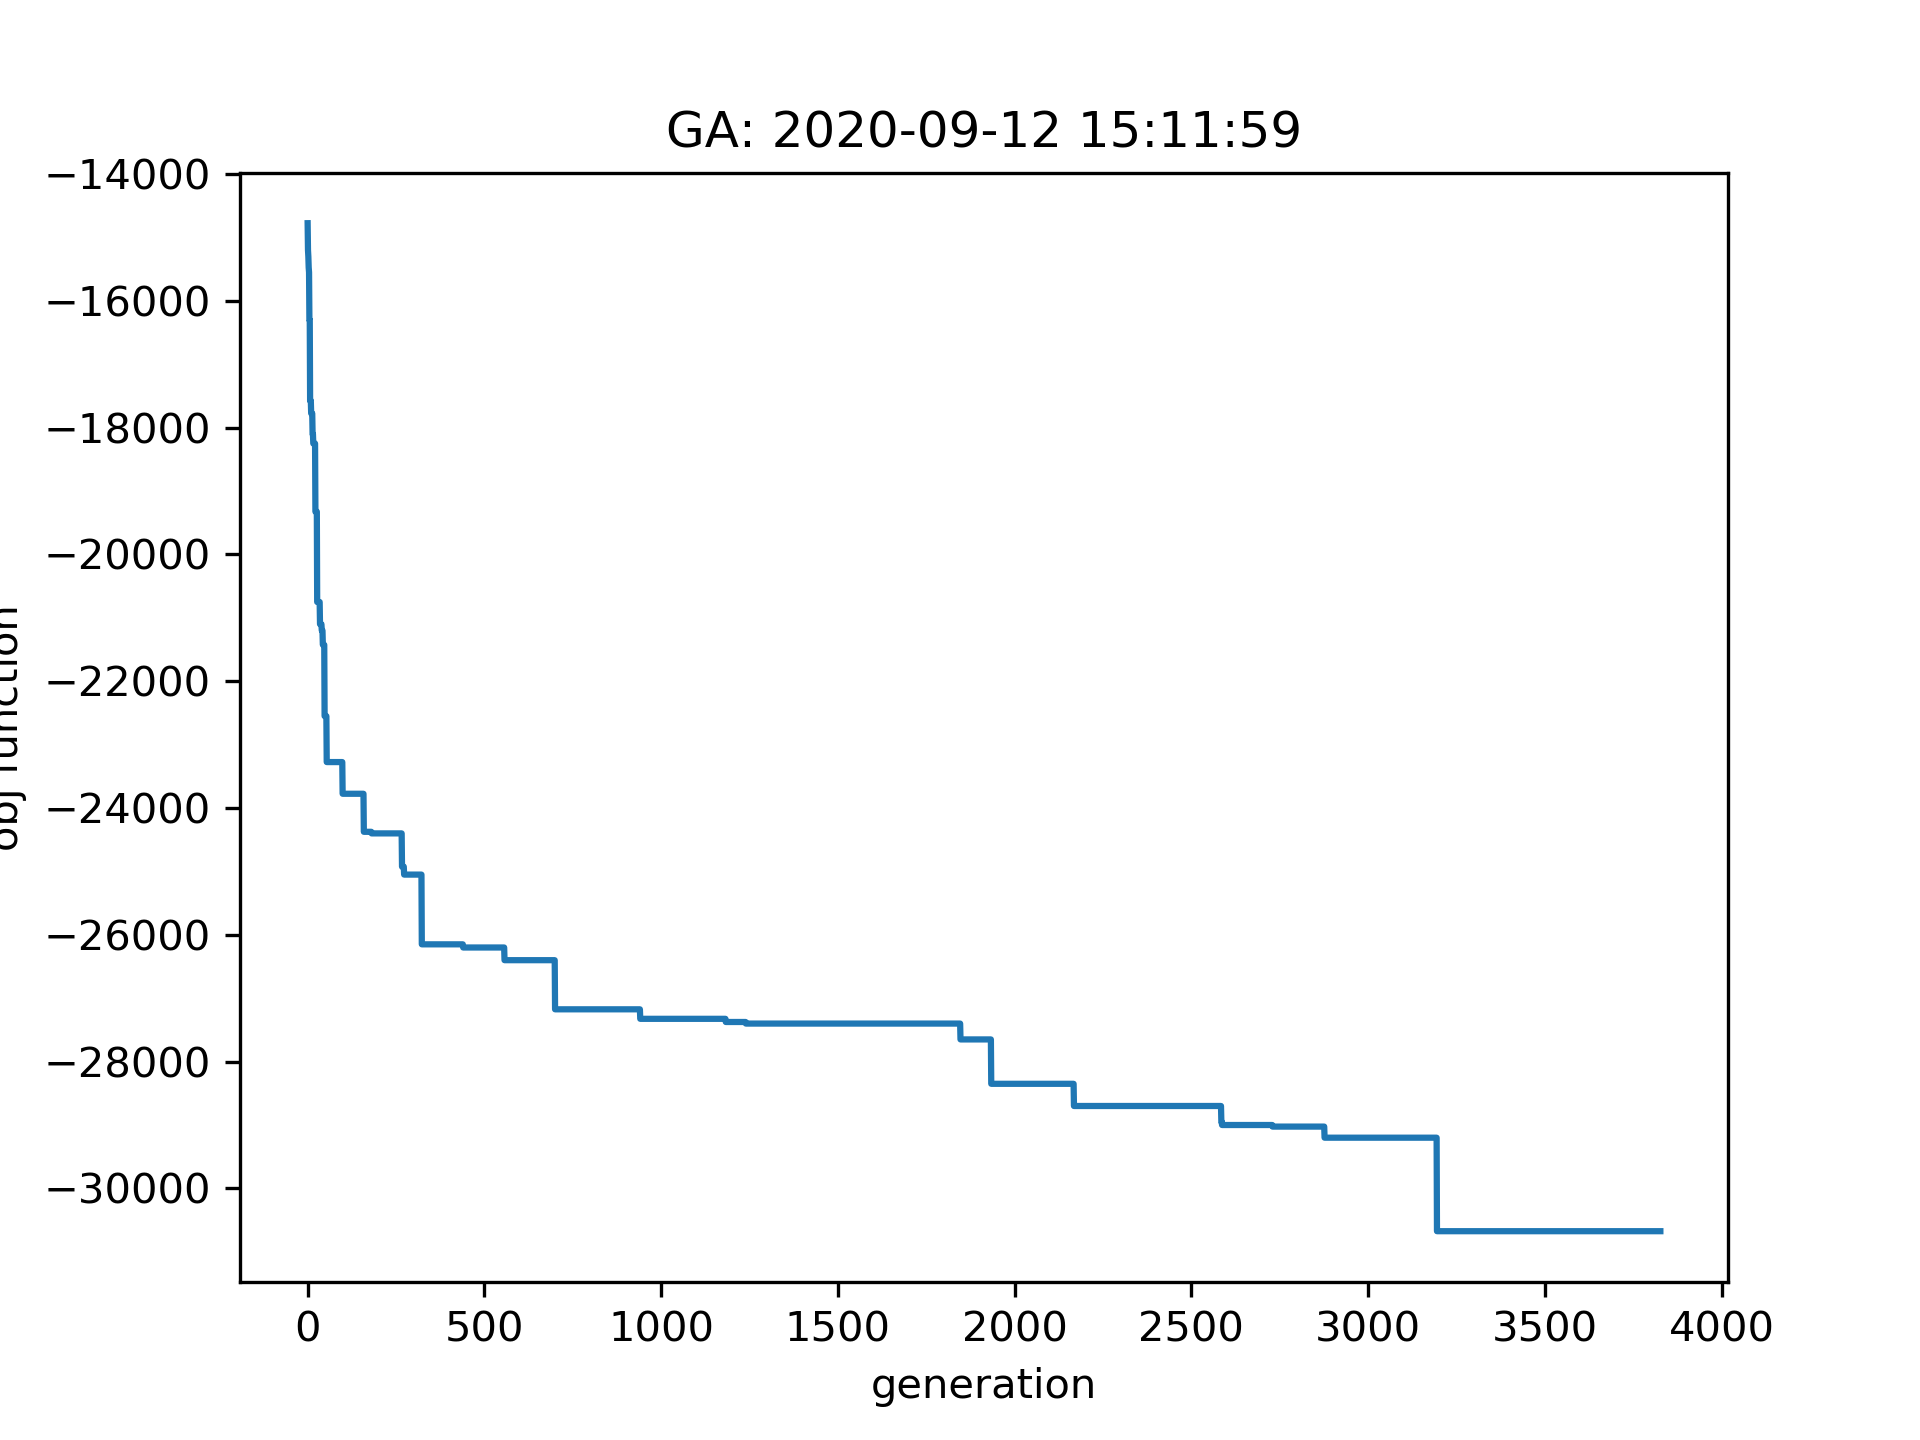
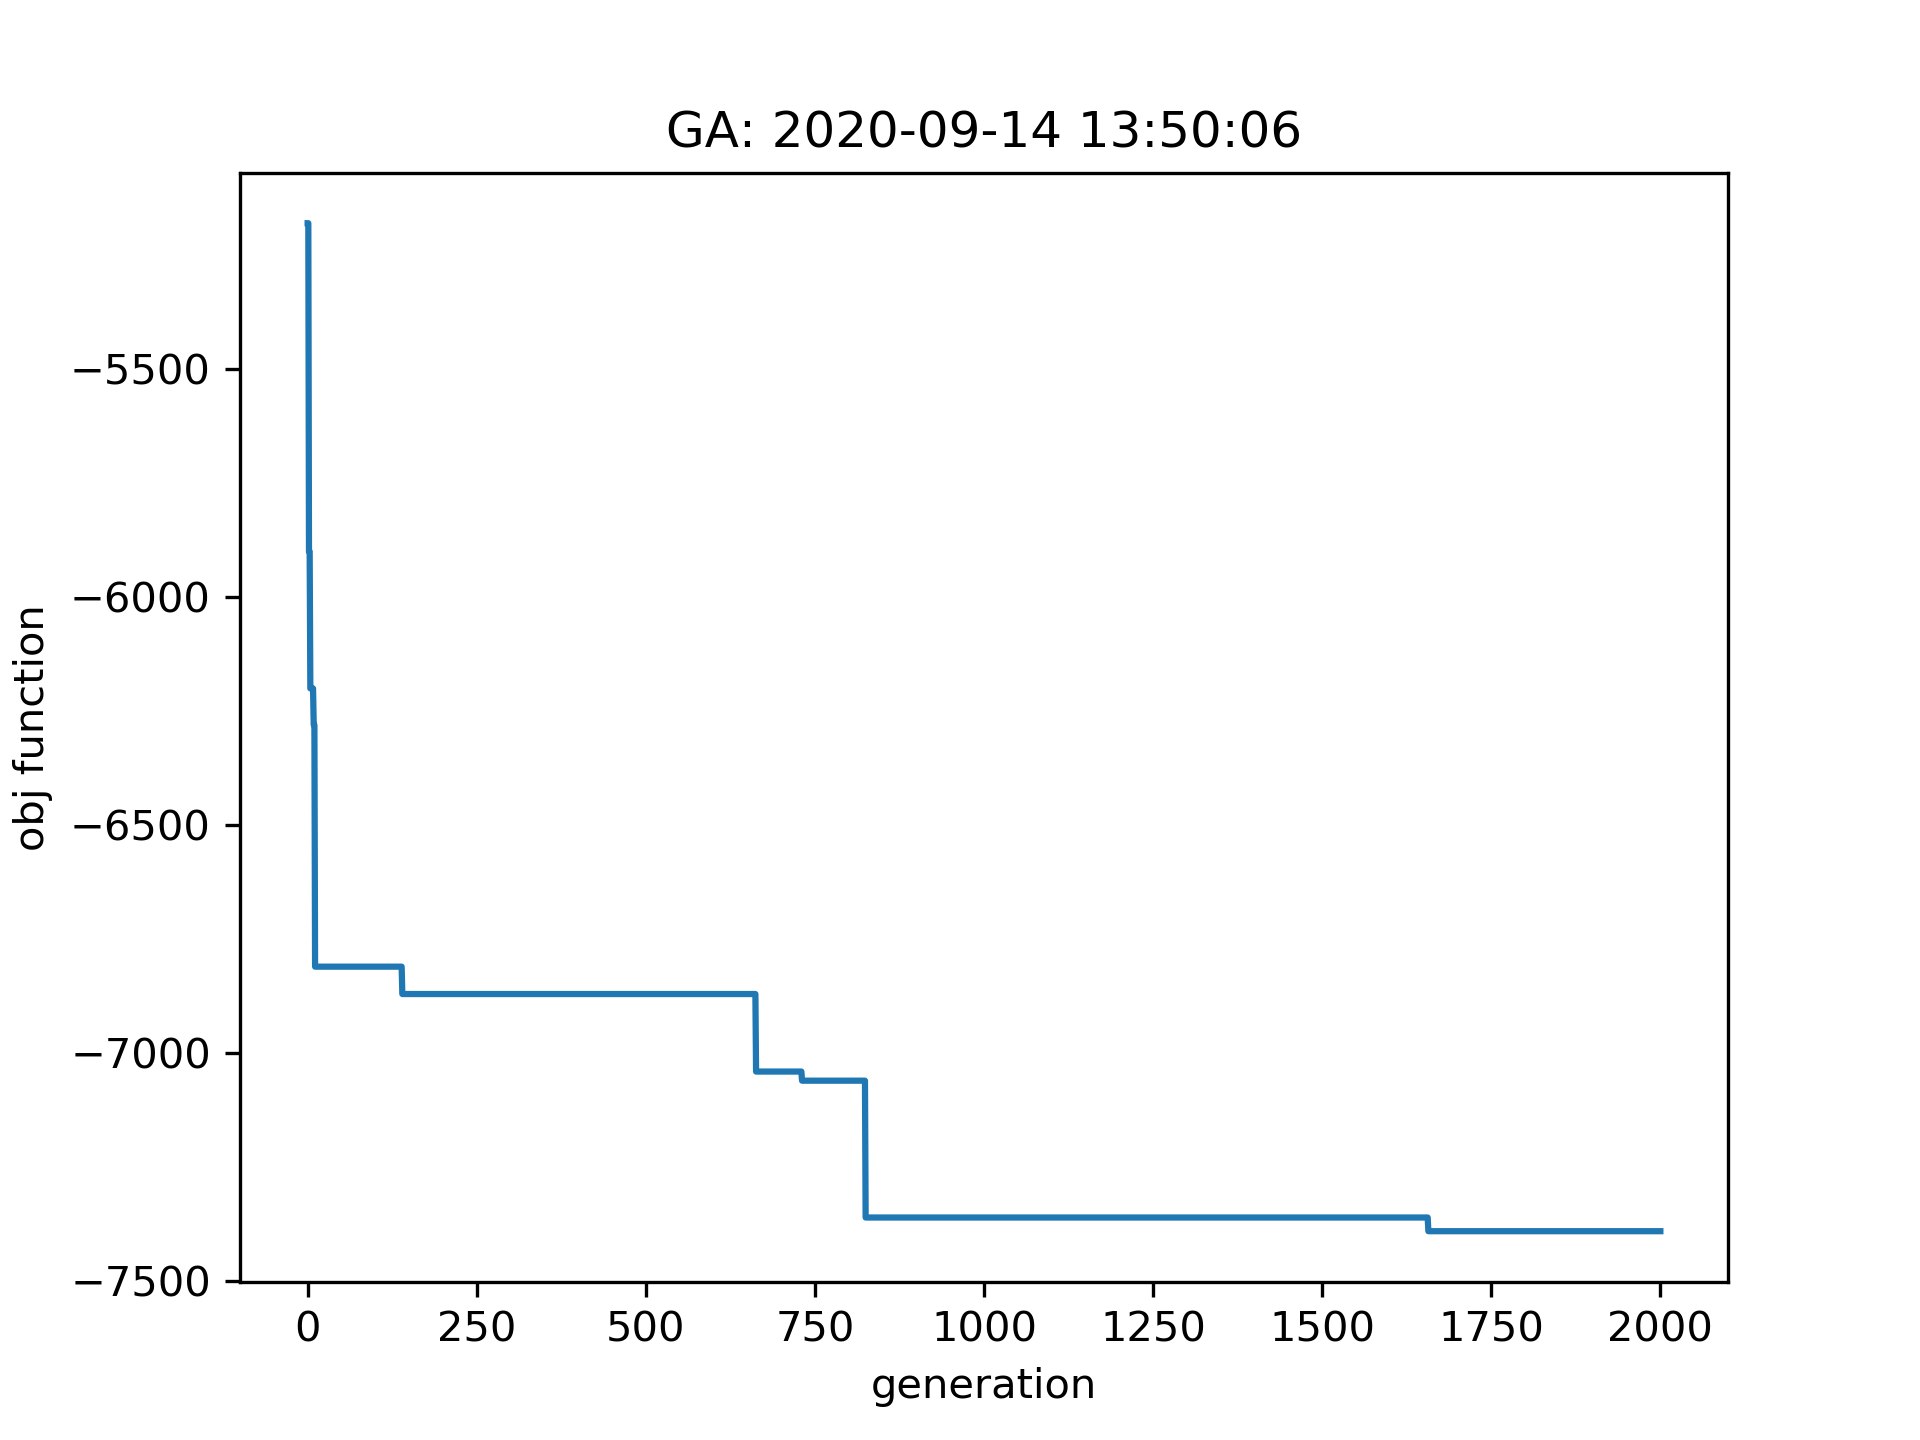
Syncing

diff --git a/src/score.py b/src/score.py
@@ -175,18 +175,18 @@ def scoringMode(groupAssignments):
     score = 0
 
     score = pointsStudentChoice(groupAssignments)
-    score += pointsESLStudents(groupAssignments)
-    score += pointsStudentPriority(groupAssignments)
+    #score += pointsESLStudents(groupAssignments)
+    #score += pointsStudentPriority(groupAssignments)
 
-    score += pointsMaxLowGPAStudents(groupAssignments)
+    #score += pointsMaxLowGPAStudents(groupAssignments)
     score += pointsTeamSize(groupAssignments)
-    score += pointsAvoid(groupAssignments)
+    #score += pointsAvoid(groupAssignments)
 
     prints.score(f"\nstudentChoice score: {totalPSC}")
-    prints.score(f"ESLStudents score: {totalPES}")
-    prints.score(f"studentPriority score: {totalPSP}")
-    prints.score(f"maxLowGPA score: {totalPML}")
+    # prints.score(f"ESLStudents score: {totalPES}")
+    # prints.score(f"studentPriority score: {totalPSP}")
+    # prints.score(f"maxLowGPA score: {totalPML}")
     prints.score(f"teamSize score: {totalPTS}")
-    prints.score(f"studentAvoid score: {totalPSA}")
+    # prints.score(f"studentAvoid score: {totalPSA}")
 
     return score

diff --git a/src/assign.py b/src/assign.py
@@ -38,14 +38,14 @@ def run_ga(verbose=1):
     num_projects = len(load_csv.projectIDs) # total projects available
     num_generations = load_csv.numStudents*num_projects*effort_scaling # scale generations based on input size
     var_bound = np.array([[0, num_projects - 1]] * load_csv.numStudents) # solution shape
-    ga_params = {'max_num_iteration': num_generations,\
+    ga_params = {'max_num_iteration': 2000,\
                     'population_size':100,\
-                    'mutation_probability':0.1,\
+                    'mutation_probability':0.2,\
                     'elit_ratio': 0.01,\
                     'crossover_probability': 0.5,\
                     'parents_portion': 0.3,\
                     'crossover_type':'uniform',\
-                    'max_iteration_without_improv':num_generations*0.35,\
+                    'max_iteration_without_improv':None,\
                     'verbose':verbose,\
                     }
 

diff --git a/src/geneticalgorithm.py b/src/geneticalgorithm.py
@@ -371,12 +371,12 @@ class geneticalgorithm():
         re = np.array(self.report)
         now = datetime.today().strftime('%Y-%m-%d %H:%M:%S')  ## pass from main?
 
-        # plt.plot(re)
-        # plt.xlabel('generation')
-        # plt.ylabel('obj function')
-        # plt.title('GA: ' + now)
-        # plt.savefig('io/latest.png', dpi=300)
-        # plt.show()
+        plt.plot(re)
+        plt.xlabel('generation')
+        plt.ylabel('obj function')
+        plt.title('GA: ' + now)
+        plt.savefig('io/latest.png', dpi=300)
+        plt.show()
 
         #plt.savefig(sys.stdout.buffer)
 

diff --git a/src/main.py b/src/main.py
@@ -145,3 +145,6 @@ if __name__ == "__main__":
         prints.gen("Assignment Score: {0}".format(finalScore))
 
     prints.gen("\n** Program has completed running **")
+
+    now = datetime.today().strftime('%Y-%m-%d %H:%M:%S')  # get the date/time
+    prints.gen("Program Finished {0}".format(now))  # print it
